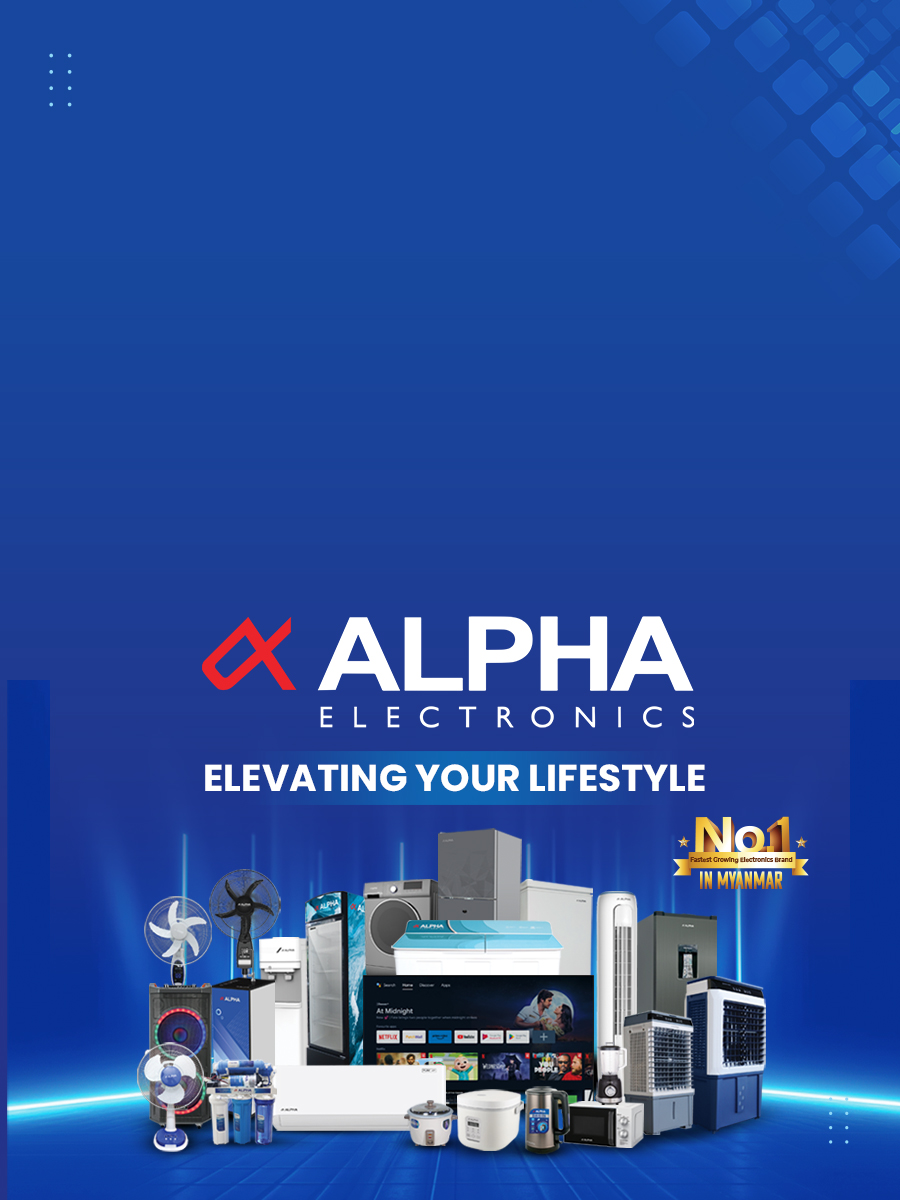
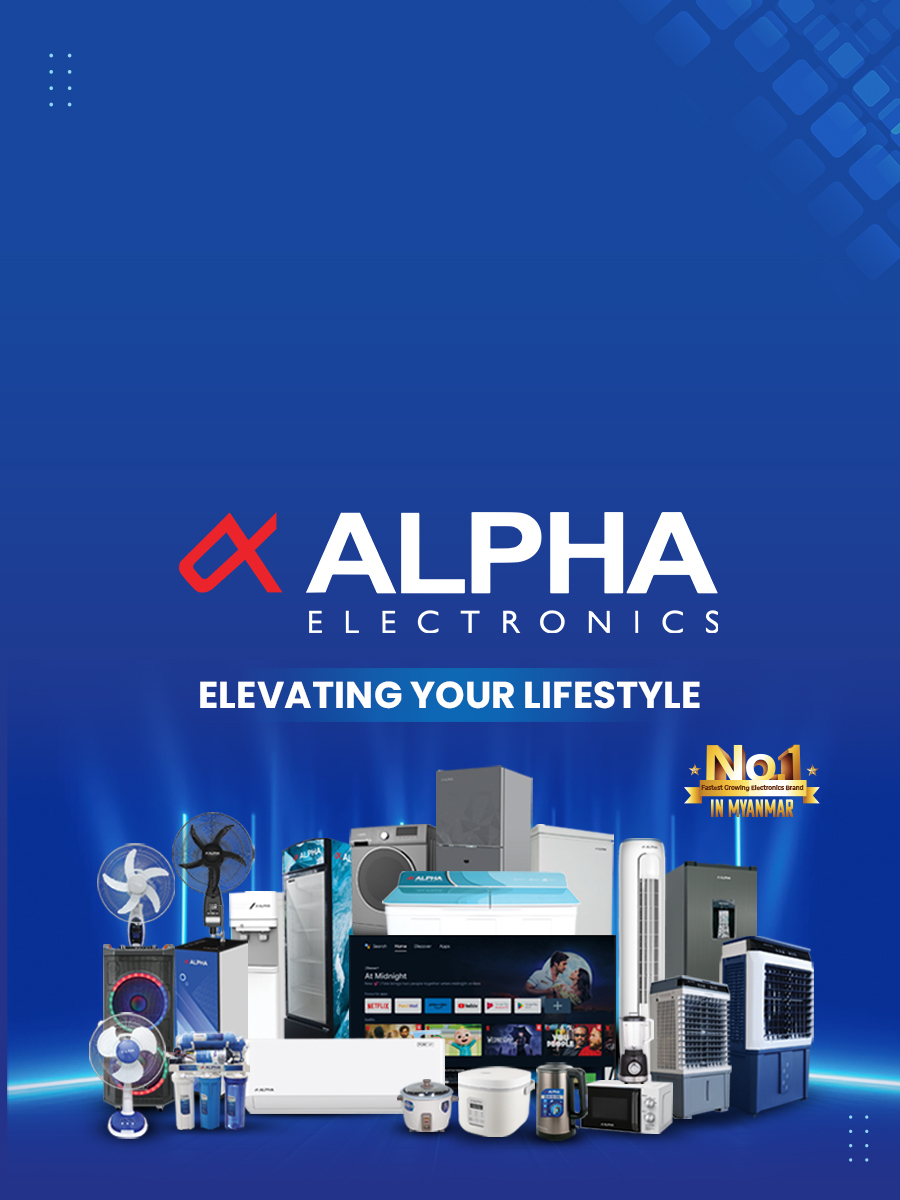
fixed-position-header

Changed region(s): [[0.0, 0.4008, 1.0, 1.0]]

diff --git a/src/pages/product/allproducts.js b/src/pages/product/allproducts.js
@@ -74,145 +74,8 @@ const AllProducts = () => {
   return (
     <div style={{backgroundColor:'#B1B3B6', overflow:'hidden'}}>
       <Header />
-      {/* <div className="product-sub-nav-link">
-        <div className="product-sub-nav-link-layout">
-          <p onClick={() => navigate("/")}>Home</p>
-          <span>/</span>
-          <p style={{ color: "#4A4CCD" }}>Products</p>
-        </div>
-      </div> */}
-      {/* {categoryType &&
-        categoryType.map((category, index) => {
-            const productsByCategory = category.products || [];
-            console.log(productsByCategory)
-          const currentPage = pagination[category.id] || 1;
-          const totalPages = Math.ceil(
-            productsByCategory.length / itemsPerPage
-          );
-          const currentProducts = productsByCategory.slice(
-            (currentPage - 1) * itemsPerPage,
-            currentPage * itemsPerPage
-          );
-
-          console.log(currentProducts)
-
-          if (productsByCategory.length < 0)
-            return <div>No products to show</div>;
-
-          return (
-            <section
-              className={`product-container ${
-                index % 2 === 0
-                  ? "product-container-white"
-                  : "product-container-gray"
-              }`}
-              key={category.id}
-            >
-              <div className="product-container-layout">
-                <div className="product-container-heading-container">
-                  <h2>{category.category_name}</h2>
-                  {productsByCategory.length > itemsPerPage ? (
-                    <div className="pagination-controls">
-                      <button
-                        onClick={() => handlePageChange(category.id, "prev")}
-                        disabled={currentPage === 1}
-                      >
-                        <div
-                          className="prev-btn-icon-div"
-                          style={{
-                            backgroundColor: currentPage === 1 ? "#D9D9D9" : "",
-                          }}
-                        >
-                          <PaginationArrowIcon width={24} height={24} />
-                        </div>
-                      </button>
-                      <button
-                        onClick={() => handlePageChange( category.id,"next")}
-                        disabled={currentPage === totalPages}
-                      >
-                        <div
-                          style={{
-                            backgroundColor:
-                              currentPage === totalPages ? "#D9D9D9" : "",
-                          }}
-                          className="next-btn-icon-div
-                "
-                        >
-                          <PaginationArrowIcon width={24} height={24} />
-                        </div>
-                      </button>
-                    </div>
-                  ) : (
-                    <div></div>
-                  )}
-                </div>
-
-                <div className="products-container">
-                    {productsByCategory.length < 1? (<div className="no-product-sign"><p>No Proudct Yet!</p></div>):(<></>)}
-                  {currentProducts.map((product) => (
-                    <div
-                      className="individual-product-container"
-                      key={product.id}
-                      onClick={() =>
-                        navigate(`/products/productdetail/${product.id}`)
-                      }
-                    >
-                      <div className="product-image-container">
-                        <img src={product.image_url} alt={product.name} />
-                      </div>
-                    </div>
-                  ))}
-                </div>
-              </div>
-            </section>
-          );
-        })} */}
-        {/* <section className="showcase">
-          <div className="showcase-layout">
-            <div
-             ref={showcaseLeftRef}
-             className={`showcase-left ${
-               showcaseLeftInView ? "animate-left" : ""
-             }`}
-            >
-              <div className="showcase-left-img" 
-              // style={{
-              //   backgroundImage:`url('/show-left.jpg')`,
-              //   backgroundPosition:'center',
-              //   backgroundSize:'cover',
-              //   display:'flex',
-              //   flexDirection:'column',
-              //   alignItems:'center',
-              //   justifyContent:'space-between'
-              // }}
-              >
-              <div className="showcaseleft-img-text">
-                <h2>Discover Your Perfect Home Appliance</h2>
-                <div className="left-img-button-container">
-                  <a href="/products">
-                  <p>View All</p><RightArrrow width={24} height={24}/>
-                  </a>
-                </div>
-               
-              </div> 
-              <div className="showcase-left-image-icon" 
-                //style={{width:'90%', height:'13rem', backgroundImage:`url('/htoo.png')`, backgroundPosition:'center', backgroundSize:'cover'}}
-                ></div>
-              </div>
-           
-            </div>
-            <div
-             ref={showcaseRightRef}
-             className={`showcase-right ${
-               showcaseRightInView ? "animate-right" : ""
-             }`}
-            >
-              <Catalouge Items={KITCHEN_ITEMS} />
-            </div>
-          </div>
-        </section> */}
         <section 
-        //style={{minHeight:'60vh',display:'flex', flexDirection:'column', justifyContent:'flex-start'}} 
+        style={{marginTop:'6rem'}} 
         className="showcase">
         <div className="showcase-layout">
           <div
@@ -257,7 +120,7 @@ const AllProducts = () => {
           </div>
         </div>
       </section>
-      <section className="mobile-showcase">
+      <section className="mobile-showcase" style={{marginTop:'6rem'}}>
       <div className="mobile-showcase-layout">
         <div className="mobile-showcase-top-container">
           <div onClick={() =>navigate('/productbycategory/home appliance')} ref={mobileCategoryTopRef1} className={`mobile-showcase-category ${mobileCategoryTopInView1 ? "slide-mobile-category" : ""}`}>

diff --git a/src/style/contactus.css b/src/style/contactus.css
@@ -1,3 +1,11 @@
+.contact-form-container{
+    width: 100%;
+    min-height: 47.25rem;
+    display: flex;
+    place-items: center;
+    justify-content: center;
+}
+
 .contact-container{
     width: 100%;
     height: 50vh;
@@ -55,17 +63,10 @@
     margin-top: 5px;
 }
 
-.contact-form-container{
-    width: 100%;
-    min-height: 47.25rem;
-    display: flex;
-    place-items: center;
-    justify-content: center;
-    padding-bottom: 5rem;
-}
-
 .contact-location-container-layout{
     width: 93%;
+    margin-top: 8rem;
+    padding-bottom: 3rem;
 }
 
 .contact-location-layout{

diff --git a/src/pages/Home.js b/src/pages/Home.js
@@ -134,7 +134,7 @@ const Home = () => {
           </div>
           <div className="mvp-image-container">
             <div className="mvp-image">
-              <img src="/images/mvpimg.jpg" alt="mvp1" />
+              <img src="/images/mvp.jpg" alt="mvp1" />
             </div>
             {/* <div className="mvp-image">
               <img src="/mvp2.jpg" alt="mvp2" />

diff --git a/src/pages/Aboutus.js b/src/pages/Aboutus.js
@@ -132,7 +132,7 @@ const AboutUs = () => {
           </div>
           <div className="mvp-image-container">
             <div className="mvp-image">
-              <img src="/mvpimg.jpg" alt="mvp1" />
+              <img src="images/mvp.jpg" alt="mvp1" />
             </div>
             {/* <div className="mvp-image">
               <img src="/mvp2.jpg" alt="mvp2" />

diff --git a/src/pages/prouductbycategory/[category].js b/src/pages/prouductbycategory/[category].js
@@ -290,6 +290,7 @@ const ProductByCategory = () => {
             <button className="showmore-btn">
               <p className="showmore-btn-text">Show More</p>
               <Sidebar
+                zindex={121}
                 showMore="true"
                 subCategory={subCategoryList}
                 Category={category}

diff --git a/src/pages/ProductDetail/[id].js b/src/pages/ProductDetail/[id].js
@@ -97,7 +97,7 @@ const ProductDetail = () => {
   console.log(filteredRelatedProducts);
 
   const [pagination, setPagination] = useState(1);
-  const itemsPerPage = 4;
+  const itemsPerPage = 5;
   const totalPages = Math.ceil(filteredRelatedProducts.length / itemsPerPage);
 
   const currentRelatedItems = useMemo(() => {

diff --git a/src/style/product.css b/src/style/product.css
@@ -5,7 +5,6 @@
   justify-content: center;
   background-color: #b1b3b6;
   border: none;
-  margin-top: 2rem;
 }
 
 .product-sub-nav-link-layout {
@@ -166,6 +165,7 @@ span {
   display: flex;
   place-items: center;
   justify-content: center;
+  margin-top: 2rem;
 }
 
 .category-nav-container-layout {

diff --git a/src/style/mobilenav.css b/src/style/mobilenav.css
@@ -31,7 +31,7 @@
     box-shadow: 0 2px 5px rgba(0, 0, 0, 0.5);
     overflow-y: auto;
     transition: right 0.3s ease;
-    z-index: 20;
+    z-index: 101;
 }
 
 .side-bar.visible {

diff --git a/src/components/mobilenav.js b/src/components/mobilenav.js
@@ -13,6 +13,7 @@ import PhoneIcon from "../modules/icons/phone-iocn";
 
 const Sidebar = ({ 
   showMore ,
+  zindex=20,
   subCategory,
   Category,
   setSubcategory,

diff --git a/src/style/header.css b/src/style/header.css
@@ -5,6 +5,8 @@ header{
     place-items: center;
     justify-content: center;
     background-color: #4D4D4F;
+    position: fixed;
+    z-index: 100;
 }
 
 nav{

diff --git a/src/style/productdetail.css b/src/style/productdetail.css
@@ -5,6 +5,7 @@
   justify-content: center;
   padding: 50px 0 100px 0;
   background-color: #B1B3B6;
+  margin-top: 2rem;
 }
 
 .product-detail-layout {

diff --git a/src/style/home.css b/src/style/home.css
@@ -170,6 +170,7 @@ background-size: cover;
   background-color: #b1b3b6;
   width: 99vw;
   height: 99vh;
+  margin-top: 6rem;
 }
 
 .hero {
